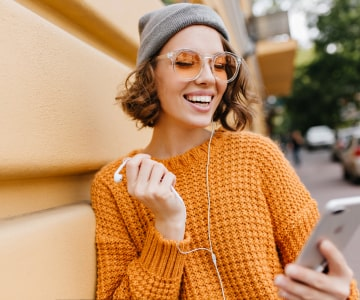
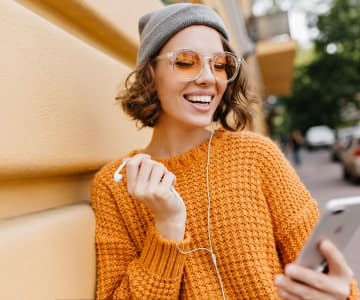
portfolio img

Changed region(s): [[0.5806, 0.84, 0.6111, 0.87], [0.5194, 0.84, 0.55, 0.87]]

diff --git a/index.html b/index.html
@@ -276,8 +276,19 @@
                 <ul class="portfolio-list">
                     <li class="portfolio-item">
                         <div class="portfolio-cover-wrap">
-                            <img class="portfolio-photo" src="./images/images_portfolio/img-1-min.jpg" alt="Banking App"
-                                width="360" height="300">
+                            <picture>
+                                <source
+                                    srcset="./images/images_portolio/img-1-min.jpg 1x, ./images/images_portfolio/img-1-min-2x.jpg 2x"
+                                    media="(min-width: 1158px)" />
+                                <source
+                                    srcset="./images/images_portolio/img-1-tab.jpg 1x, ./images/images_portfolio/img-1-tab-2x.jpg 2x"
+                                    media="(min-width: 768px)" />
+                                <source
+                                    srcset="./images/images_portolio/img-1-mob.jpg 1x, ./images/images_portfolio/img-1-mob-2x.jpg 2x"
+                                    media="(max-width: 767px)" />
+                                <img class="portfolio-photo" src="./images/images_portfolio/img-1-min.jpg"
+                                    alt="Banking App" width="360" height="300">
+                            </picture>
                             <p class="portfolio-cover-text">14 Stylish and User-Friendly App Design Concepts · Task
                                 Manager
                                 App · Calorie Tracker App ·
@@ -292,8 +303,19 @@
                     </li>
                     <li class=" portfolio-item">
                         <div class="portfolio-cover-wrap">
-                            <img class="portfolio-photo" src="./images/images_portfolio/img-2-min.jpg"
-                                alt="Cashless Payment" width="360" height="300">
+                            <picture>
+                                <source
+                                    srcset="./images/images_portolio/img-2-min.jpg 1x, ./images/images_portfolio/img-2-min-2x.jpg 2x"
+                                    media="(min-width: 1158px)" />
+                                <source
+                                    srcset="./images/images_portolio/img-2-tab.jpg 1x, ./images/images_portfolio/img-2-tab-2x.jpg 2x"
+                                    media="(min-width: 768px)" />
+                                <source
+                                    srcset="./images/images_portolio/img-2-mob.jpg 1x, ./images/images_portfolio/img-2-mob-2x.jpg 2x"
+                                    media="(max-width: 767px)" />
+                                <img class="portfolio-photo" src="./images/images_portfolio/img-2-min.jpg"
+                                    alt="Cashless Payment" width="360" height="300">
+                            </picture>
                             <p class="portfolio-cover-text">14 Stylish and User-Friendly App Design Concepts · Task
                                 Manager
                                 App · Calorie Tracker App ·
@@ -308,8 +330,19 @@
                     </li>
                     <li class="portfolio-item">
                         <div class="portfolio-cover-wrap">
-                            <img class="portfolio-photo" src="./images/images_portfolio/img-3-min.jpg"
-                                alt="Meditation App" width="360" height="300">
+                            <picture>
+                                <source
+                                    srcset="./images/images_portolio/img-3-min.jpg 1x, ./images/images_portfolio/img-3-min-2x.jpg 2x"
+                                    media="(min-width: 1158px)" />
+                                <source
+                                    srcset="./images/images_portolio/img-3-tab.jpg 1x, ./images/images_portfolio/img-3-tab-2x.jpg 2x"
+                                    media="(min-width: 768px)" />
+                                <source
+                                    srcset="./images/images_portolio/img-3-mob.jpg 1x, ./images/images_portfolio/img-3-mob-2x.jpg 2x"
+                                    media="(max-width: 767px)" />
+                                <img class="portfolio-photo" src="./images/images_portfolio/img-3-min.jpg"
+                                    alt="Meditation App" width="360" height="300">
+                            </picture>
                             <p class="portfolio-cover-text">14 Stylish and User-Friendly App Design Concepts · Task
                                 Manager
                                 App · Calorie Tracker App ·
@@ -323,8 +356,19 @@
                     </li>
                     <li class="portfolio-item">
                         <div class="portfolio-cover-wrap">
-                            <img class="portfolio-photo" src="./images/images_portfolio/img-4-min.jpg"
-                                alt="Taxi Service" width="360" height="300">
+                            <picture>
+                                <source
+                                    srcset="./images/images_portolio/img-4-min.jpg 1x, ./images/images_portfolio/img-4-min-2x.jpg 2x"
+                                    media="(min-width: 1158px)" />
+                                <source
+                                    srcset="./images/images_portolio/img-4-tab.jpg 1x, ./images/images_portfolio/img-4-tab-2x.jpg 2x"
+                                    media="(min-width: 768px)" />
+                                <source
+                                    srcset="./images/images_portolio/img-4-mob.jpg 1x, ./images/images_portfolio/img-4-mob-2x.jpg 2x"
+                                    media="(max-width: 767px)" />
+                                <img class="portfolio-photo" src="./images/images_portfolio/img-4-min.jpg"
+                                    alt="Taxi Service" width="360" height="300">
+                            </picture>
                             <p class="portfolio-cover-text">14 Stylish and User-Friendly App Design Concepts · Task
                                 Manager
                                 App · Calorie Tracker App ·
@@ -338,8 +382,19 @@
                     </li>
                     <li class="portfolio-item">
                         <div class="portfolio-cover-wrap">
-                            <img class="portfolio-photo" src="./images/images_portfolio/img-5-min.jpg"
-                                alt="Screen Illustrations" width="360" height="300">
+                            <picture>
+                                <source
+                                    srcset="./images/images_portolio/img-5-min.jpg 1x, ./images/images_portfolio/img-5-min-2x.jpg 2x"
+                                    media="(min-width: 1158px)" />
+                                <source
+                                    srcset="./images/images_portolio/img-5-tab.jpg 1x, ./images/images_portfolio/img-5-tab-2x.jpg 2x"
+                                    media="(min-width: 768px)" />
+                                <source
+                                    srcset="./images/images_portolio/img-5-mob.jpg 1x, ./images/images_portfolio/img-5-mob-2x.jpg 2x"
+                                    media="(max-width: 767px)" />
+                                <img class="portfolio-photo" src="./images/images_portfolio/img-5-min.jpg"
+                                    alt="Screen Illustrations" width="360" height="300">
+                            </picture>
                             <p class="portfolio-cover-text">14 Stylish and User-Friendly App Design Concepts · Task
                                 Manager
                                 App · Calorie Tracker App ·
@@ -353,8 +408,19 @@
                     </li>
                     <li class="portfolio-item">
                         <div class="portfolio-cover-wrap">
-                            <img class="portfolio-photo" src="./images/images_portfolio/img-6-min.jpg"
-                                alt="Online Courses" width="360" height="300">
+                            <picture>
+                                <source
+                                    srcset="./images/images_portolio/img-6-min.jpg 1x, ./images/images_portfolio/img-6-min-2x.jpg 2x"
+                                    media="(min-width: 1158px)" />
+                                <source
+                                    srcset="./images/images_portolio/img-6-tab.jpg 1x, ./images/images_portfolio/img-6-tab-2x.jpg 2x"
+                                    media="(min-width: 768px)" />
+                                <source
+                                    srcset="./images/images_portolio/img-6-mob.jpg 1x, ./images/images_portfolio/img-6-mob-2x.jpg 2x"
+                                    media="(max-width: 767px)" />
+                                <img class="portfolio-photo" src="./images/images_portfolio/img-6-min.jpg"
+                                    alt="Online Courses" width="360" height="300">
+                            </picture>
                             <p class="portfolio-cover-text">14 Stylish and User-Friendly App Design Concepts · Task
                                 Manager
                                 App · Calorie Tracker App ·

diff --git a/css/styles.css b/css/styles.css
@@ -24,8 +24,8 @@ p, h1, h2, h3, h4, h5, h6 {
 
 img {
     display: block;
-    /* max-width: 100%;  */
-    /* height: auto; */
+    max-width: 100%; 
+    height: auto;
 }
 
 .container {
